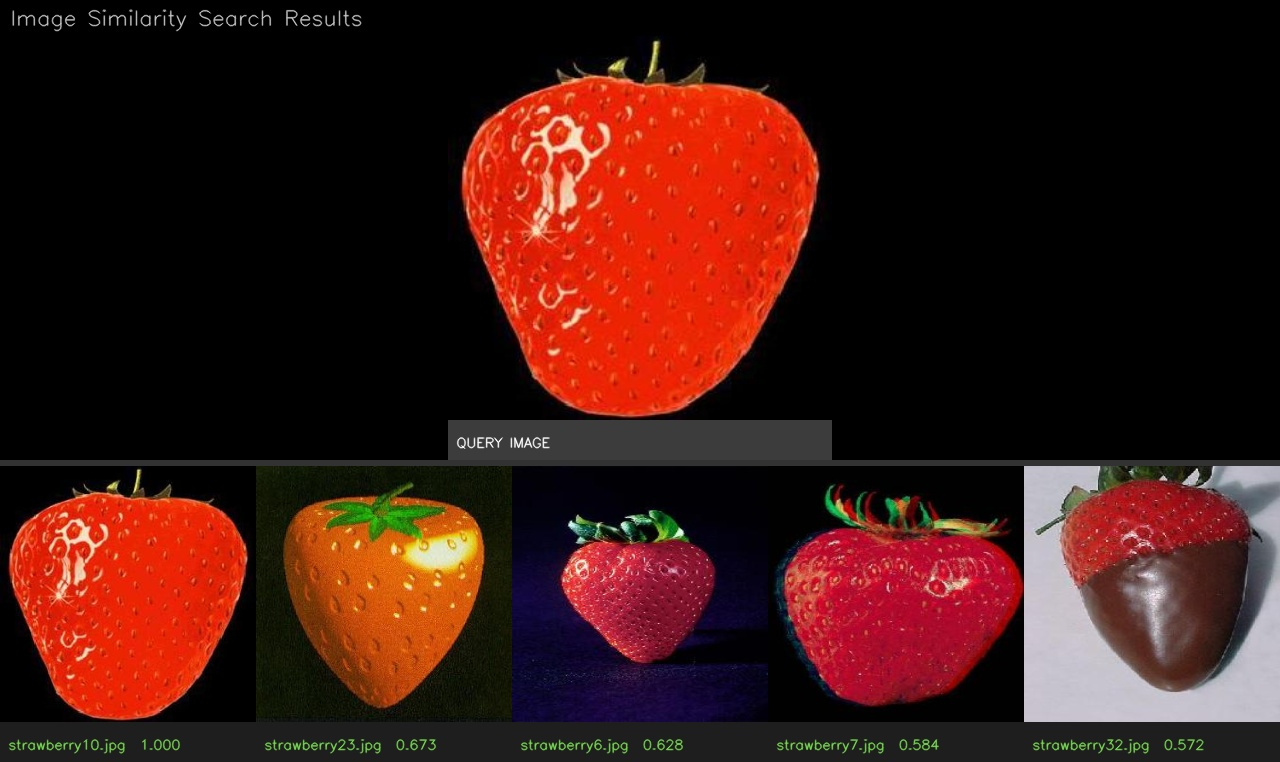
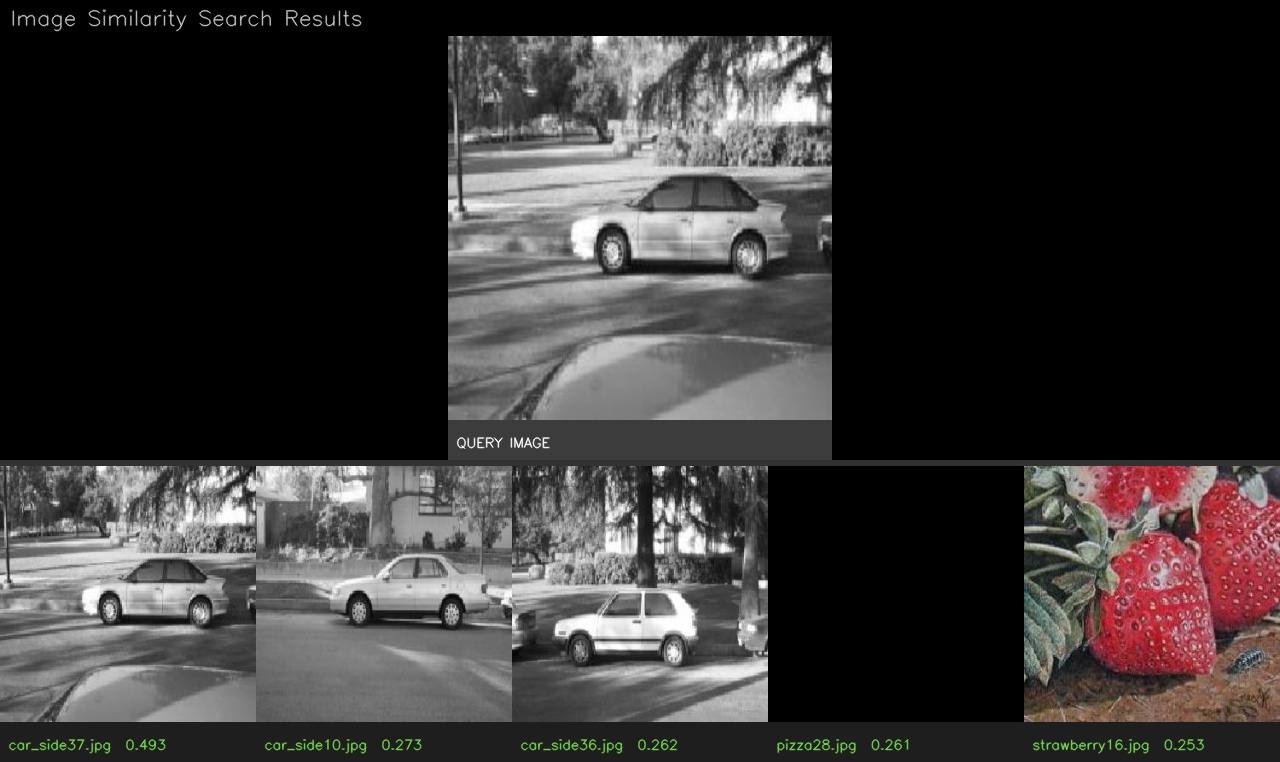
2

diff --git a/rename.py b/rename.py
@@ -1,0 +1,37 @@
+import os
+
+# folder path
+folder = r"D:\caltech-101\brain"
+
+# new base name
+base_name = "brain"
+
+# supported image formats
+extensions = (".jpg", ".jpeg", ".png", ".bmp")
+
+# get all images
+files = []
+
+for file in os.listdir(folder):
+    if file.lower().endswith(extensions):
+        files.append(file)
+
+# sort files
+files.sort()
+
+# rename images
+for i, file in enumerate(files, start=1):
+
+    old_path = os.path.join(folder, file)
+
+    ext = os.path.splitext(file)[1]
+
+    new_name = f"{base_name}{i}{ext}"
+
+    new_path = os.path.join(folder, new_name)
+
+    os.rename(old_path, new_path)
+
+    print(f"{file} -> {new_name}")
+
+print("\nDone.")

diff --git a/image_similarity_search.py b/image_similarity_search.py
@@ -22,9 +22,10 @@ import show_results
 # ─────────────────────────────────────────
 DATASET_PATH = "dataset"        # folder that contains your images
 SAVE_PATH    = "model"          # folder to save computed data
-K            = 400              # number of visual words (keep low for slow PC)
-MAX_IMAGES   = 300             # max images to load (keep low for slow PC)
-IMAGE_SIZE   = (256, 256)       # resize all images to this before processing
+K            = 2000             # number of visual words (keep low for slow PC)
+MAX_IMAGES   = 1000             # max images to load (keep low for slow PC)
+#IMAGE_SIZE = (512, 512)  
+IMAGE_SIZE   = (256, 256)     # resize all images to this before processing
 TOP_N        = 5                # number of search results to show
 
 
@@ -66,12 +67,12 @@ def load_images(dataset_path, max_images=MAX_IMAGES, size=IMAGE_SIZE):
 def extract_sift_descriptors(images):
     print("\n[2] Extracting SIFT descriptors...")
     sift = cv2.SIFT_create(
-        nfeatures=300,   # max keypoints per image — keep low for speed
-        nOctaveLayers=3,
-        contrastThreshold=0.04,
-        edgeThreshold=10,
-        sigma=1.6
-    )
+    nfeatures=1000,
+    nOctaveLayers=5,
+    contrastThreshold=0.02,
+    edgeThreshold=15,
+    sigma=1.2
+)
 
     all_descriptors = []   # one flat list of all descriptors (for K-Means)
     per_image_desc  = []   # list of descriptor arrays, one per image